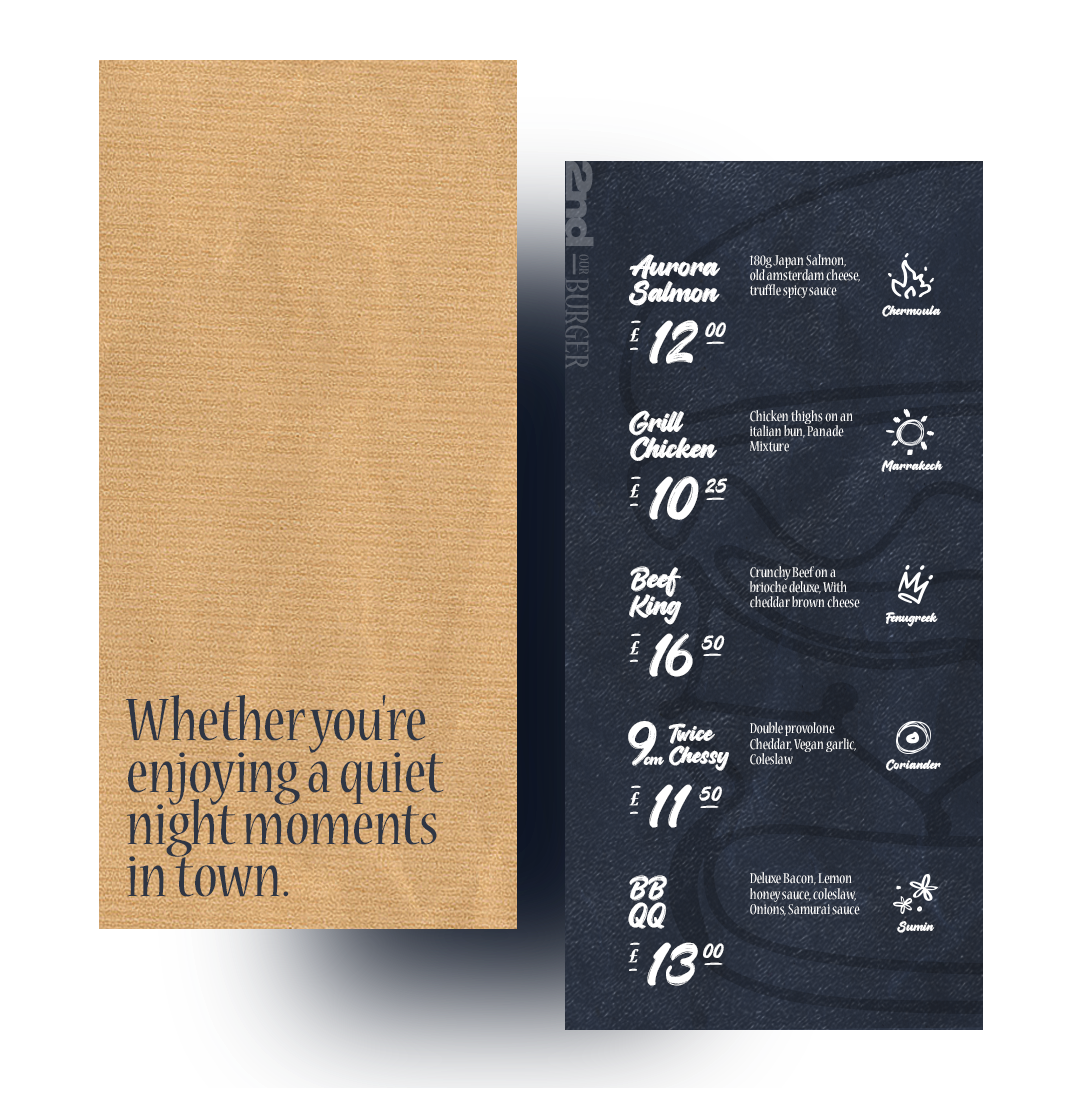
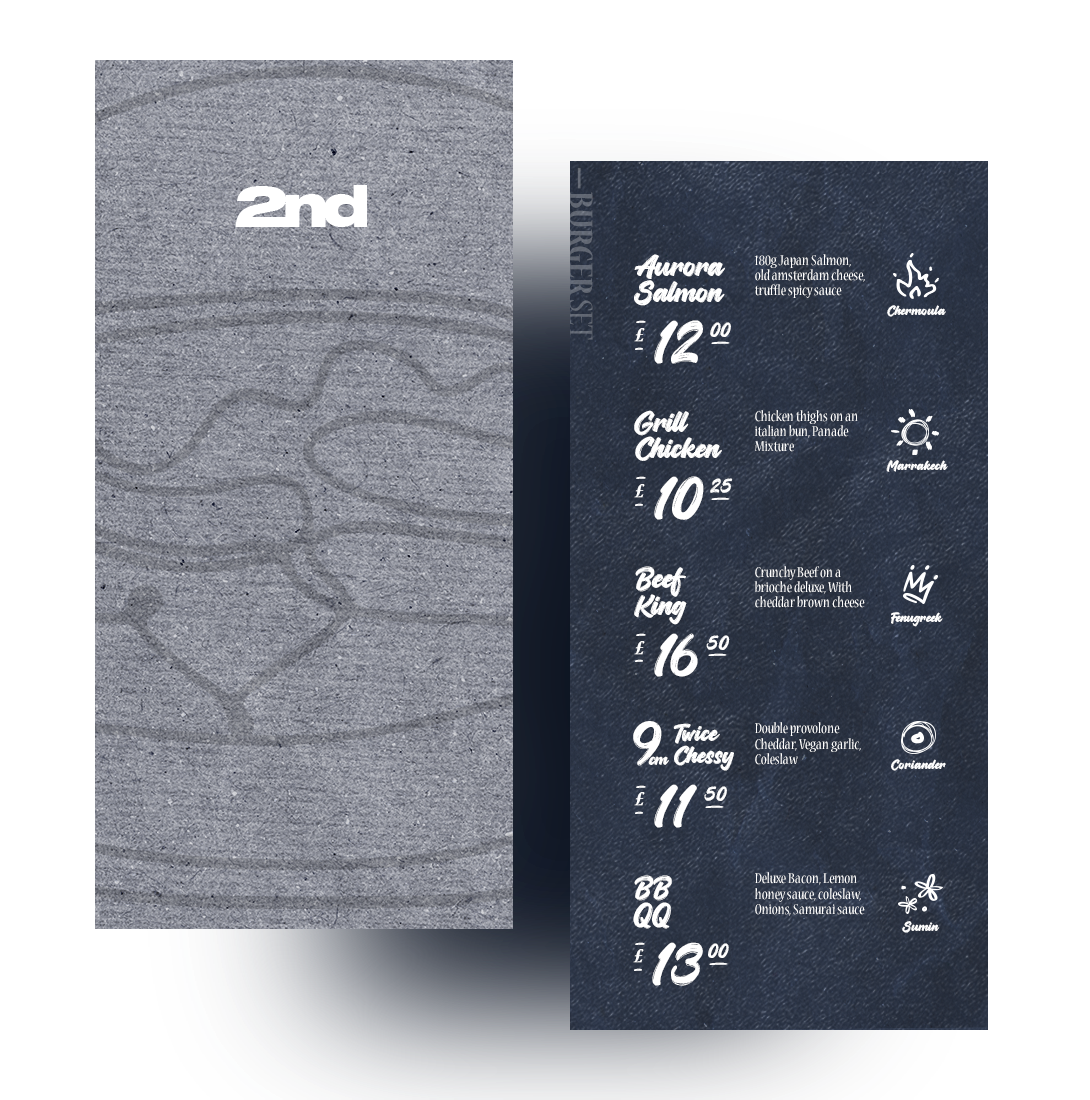
2811_01

diff --git a/project/2nd.html b/project/2nd.html
@@ -241,7 +241,7 @@
     <div class="spacing-large"></div>
 
     <div class="body-width-small observable spacing-small">
-        <p class="observable h1 spacing-sub-title">Packing</p>
+        <p class="observable h1 spacing-sub-title">Material</p>
     </div>
 
     <div class="body-width observable parallax-section spacing-large">
@@ -255,7 +255,10 @@
     </div>
 
 
-
+    <div class="full-width observable parallax-section spacing-large">
+      <div class="parallax-7"><img class="lazy" data-src="../images/projects/2nd/label.png"></div>
+      <div class="parallax-7"><img class="lazy" data-src="../images/projects/2nd/menu.png"></div>
+    </div>
 
 
     <!--<div class="body-width-small observable parallax-section spacing-small">
@@ -288,8 +291,7 @@
 
 
     <div class="full-width observable parallax-section spacing-large">
-      
-      <div class="parallax-7"><img class="lazy" data-src="../images/projects/2nd/menu.png"></div>
+      <div class="parallax-7"><img class="lazy" data-src="../images/projects/2nd/poster_v2.jpg"></div>
       <div class="parallax-4"><img class="lazy" data-src="../images/projects/2nd/poster.jpg"></div>
     </div>
 
@@ -348,7 +350,7 @@
     
     
 
-    <img class="lazy copy-width" data-src="../images/projects/2nd/shop.jpg">
+    <!--<img class="lazy copy-width" data-src="../images/projects/2nd/shop.jpg">-->
 
     <div id="project-nav">
       <div class="body-width project-nav-width">
